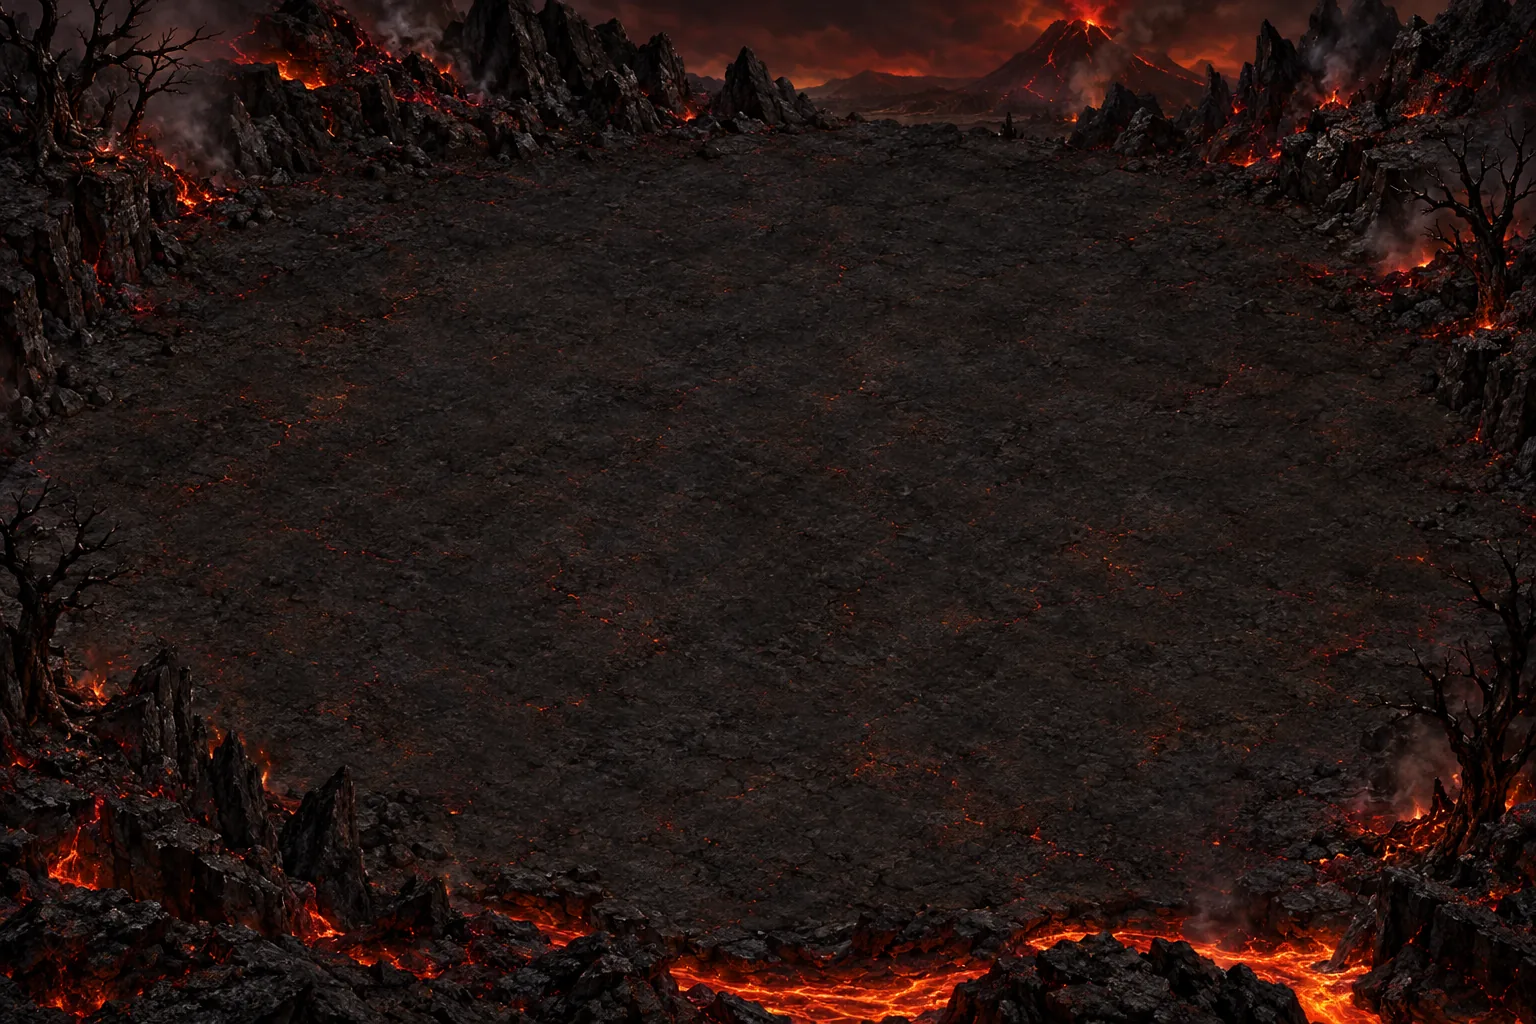
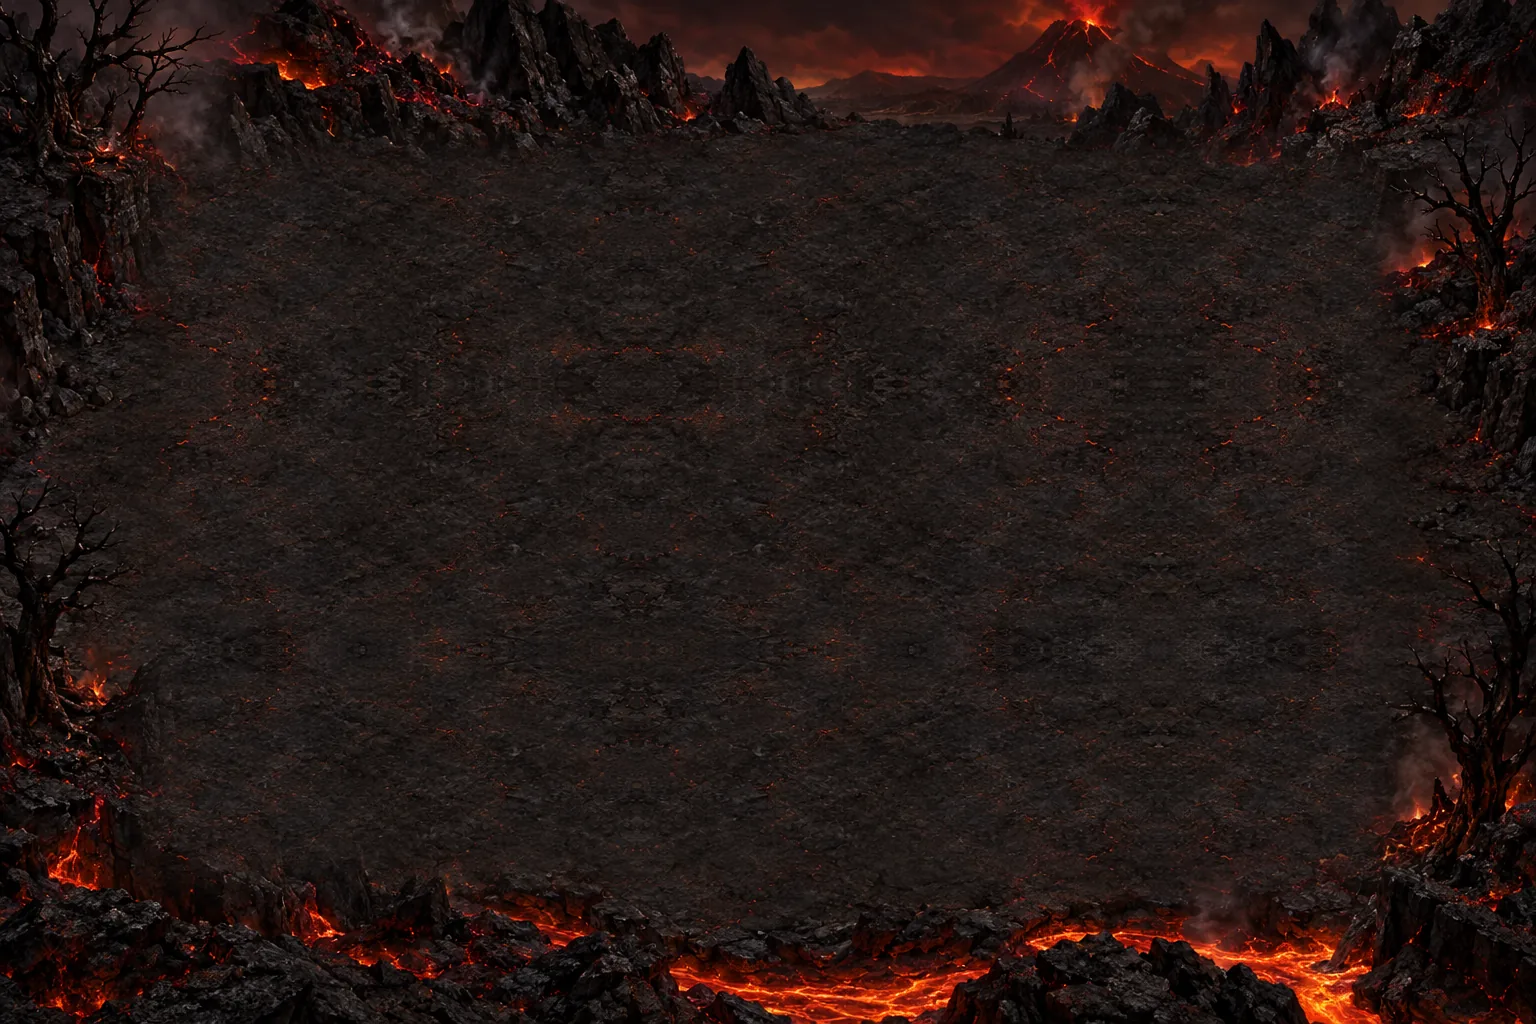
UI + assets (digital arena): more obstacle variety (6 + 5), obstacles fitted to their hexes, clean plate under the board, sprite units stand lower, no ring round the active unit

diff --git a/src/ui/ArenaBoard.tsx b/src/ui/ArenaBoard.tsx
@@ -37,7 +37,12 @@ const GoldGrid = memo(function GoldGrid({ cells, points, wide }: { cells: readon
 });
 
 /** Obstacle pictures of the digital arenas (public/assets/arena/cyfrowa): the two variants used on each arena. */
-const OBSTACLE_ART = { dawn: ['boulders', 'ruin'], horde: ['spires', 'deadtree'] } as const;
+const OBSTACLE_ART = {
+  dawn: ['boulders', 'ruin', 'pine', 'log', 'brambles', 'statue'],
+  horde: ['spires', 'deadtree', 'bones', 'barricade', 'crystals'],
+} as const;
+/** An obstacle picture is fitted into this box, standing on the lower part of its hex. */
+const OBSTACLE_BOX = { w: 76, h: 92, base: 26 };
 
 export interface ArenaView {
   x: number;
@@ -85,6 +90,8 @@ interface Props {
 
 /** Rim of the blocked cells on both arenas (scripts/assets/arenas.py paints the same one). */
 const OBSTACLE_RIM = '#A88414';
+/** How far below the middle of its hex(es) a sprite unit stands (its feet). */
+const FEET = 24;
 
 export function ArenaBoard(p: Props) {
   const { state, view, scale, anim, deploy, targeting, hover, setHover, active, moves, hops, targets, approach } = p;
@@ -113,9 +120,9 @@ export function ArenaBoard(p: Props) {
   /** Feet of a sprite unit: the middle of its hex, or between its two hexes. */
   const anchorOf = (fp: { head: HexKey; tail?: HexKey }) => {
     const h = cellCenter(fp.head);
-    if (!fp.tail) return { x: h.x, y: h.y + 10 };
+    if (!fp.tail) return { x: h.x, y: h.y + FEET };
     const t = cellCenter(fp.tail);
-    return { x: (h.x + t.x) / 2, y: (h.y + t.y) / 2 + 10 };
+    return { x: (h.x + t.x) / 2, y: (h.y + t.y) / 2 + FEET };
   };
   const spritePieces: SpritePiece[] = spriteUnits.flatMap((u): SpritePiece[] => {
     const fp = footprintOf(u);
@@ -129,8 +136,9 @@ export function ArenaBoard(p: Props) {
       if (enemies.length) flip = enemies.reduce((m, x) => m + x, 0) / enemies.length < a.x;
     }
     const melee = lastStrike(u.id, false);
-    const isActive = deploySide ? picked === u.id : active?.id === u.id;
-    return [{ key: u.id, defId: u.defId, x: a.x, y: a.y, flip, dead: !u.alive, ring: isActive ? ACTIVE_FIGURE_RING : null, attack: melee ? { key: melee.key, towardX: cellCenter(melee.to).x } : null, hit: hitIds.includes(u.id), snap: b.stage === 'deploy' }];
+    // In a fight the blue cells already mark the active unit; the ring only shows which unit is picked while deploying.
+    const ring = deploySide && picked === u.id ? ACTIVE_FIGURE_RING : null;
+    return [{ key: u.id, defId: u.defId, x: a.x, y: a.y, flip, dead: !u.alive, ring, attack: melee ? { key: melee.key, towardX: cellCenter(melee.to).x } : null, hit: hitIds.includes(u.id), snap: b.stage === 'deploy' }];
   });
   return (
     <Frame crest className="grow arena-frame" innerClass="" innerStyle={{ background: '#14100A' }}>
@@ -144,8 +152,13 @@ export function ArenaBoard(p: Props) {
             b.obstacles.map((k) => {
               const c = cellCenter(k);
               const { col, row } = wideCellOf(k);
-              const name = OBSTACLE_ART[b.arena][(col + row) % 2];
-              return <img key={`ob${k}`} src={asset(`arena/cyfrowa/${name}.webp`)} alt="" style={{ position: 'absolute', left: c.x - 46, top: c.y - 74, width: 92, pointerEvents: 'none', filter: b.arena === 'horde' ? 'brightness(1.55) contrast(1.05)' : undefined }} />;
+              const names = OBSTACLE_ART[b.arena];
+              const name = names[(col * 5 + row * 3 + col * row) % names.length];
+              return (
+                <div key={`ob${k}`} style={{ position: 'absolute', left: c.x - OBSTACLE_BOX.w / 2, top: c.y + OBSTACLE_BOX.base - OBSTACLE_BOX.h, width: OBSTACLE_BOX.w, height: OBSTACLE_BOX.h, display: 'flex', alignItems: 'flex-end', justifyContent: 'center', pointerEvents: 'none' }}>
+                  <img src={asset(`arena/cyfrowa/${name}.webp`)} alt="" style={{ maxWidth: '100%', maxHeight: '100%', filter: b.arena === 'horde' ? 'brightness(1.55) contrast(1.05)' : undefined }} />
+                </div>
+              );
             })}
           <svg width={CANVAS_W} height={CANVAS_H} style={{ position: 'absolute', left: 0, top: 0 }}>
             <g pointerEvents="none">
@@ -241,7 +254,7 @@ export function ArenaBoard(p: Props) {
             const sprite = spriteIds.has(u.id);
             const figure = sprite || figureFor(u.defId);
             const fp = sprite ? footprintOf(u) : null;
-            const { x, y } = fp ? (() => { const a = anchorOf(fp); return { x: a.x - W / 2, y: a.y - 10 - H / 2 }; })() : cellPos(posOf(u)!);
+            const { x, y } = fp ? (() => { const a = anchorOf(fp); return { x: a.x - W / 2, y: a.y - FEET - H / 2 }; })() : cellPos(posOf(u)!);
             const isActive = deploySide ? picked === u.id : active?.id === u.id;
             const isTarget = targets.some((t) => t.id === u.id);
             const strike = lastStrike(u.id, false);

diff --git a/scripts/assets/arena_cyfrowa.py b/scripts/assets/arena_cyfrowa.py
@@ -1,0 +1,62 @@
+"""Digital arena pictures: compact obstacle sprites and backgrounds with a clean plate under the board.
+
+Usage: python3 scripts/assets/arena_cyfrowa.py <dir with the raw PNGs> <output dir>
+  raw: dawn_raw.png, horde_raw.png (1536x1024) and one PNG per obstacle (transparent, 768x768).
+The grid sits in the middle of the picture (see src/ui/arenaGeometry.ts); trees and ruins of the frame sometimes reached
+under its corners, so the board area is replaced by a mirror-tiled crop of the clean middle of the same picture with a soft edge.
+"""
+import glob
+import os
+import sys
+
+from PIL import Image, ImageChops, ImageDraw, ImageFilter
+
+# Board rectangle in the 1000 x 667 canvas of arenaGeometry (13.5 hex widths of 62, 14 hex radii), with a margin.
+BOARD = (81, 83, 919, 584)
+MARGIN = 6
+FEATHER = 36
+
+
+def clean_plate(im: Image.Image) -> Image.Image:
+    w, h = im.size
+    k = w / 1000
+    x0, y0, x1, y1 = (int(v * k) for v in (BOARD[0] - MARGIN, BOARD[1] - MARGIN, BOARD[2] + MARGIN, BOARD[3] + MARGIN))
+    # A clean piece from the middle, mirrored over and over to cover the board.
+    cw, ch = int(w * 0.34), int(h * 0.26)
+    cx, cy = int(w * 0.33), int(h * 0.38)
+    piece = im.crop((cx, cy, cx + cw, cy + ch))
+    tile = Image.new("RGB", (cw * 2, ch * 2))
+    tile.paste(piece, (0, 0))
+    tile.paste(piece.transpose(Image.FLIP_LEFT_RIGHT), (cw, 0))
+    tile.paste(piece.transpose(Image.FLIP_TOP_BOTTOM), (0, ch))
+    tile.paste(piece.transpose(Image.ROTATE_180), (cw, ch))
+    plate = Image.new("RGB", (w, h))
+    # Offset so the original middle stays roughly where it was.
+    for ty in range(y0 - ch * 2, y1 + ch * 2, ch * 2):
+        for tx in range(x0 - cw * 2, x1 + cw * 2, cw * 2):
+            plate.paste(tile, (tx, ty))
+    mask = Image.new("L", (w, h), 0)
+    ImageDraw.Draw(mask).rectangle((x0 + FEATHER, y0 + FEATHER, x1 - FEATHER, y1 - FEATHER), fill=255)
+    mask = mask.filter(ImageFilter.GaussianBlur(FEATHER / 1.5))
+    return Image.composite(plate, im, mask)
+
+
+def sprite(im: Image.Image, size: int = 320) -> Image.Image:
+    a = im.getchannel("A").point(lambda v: 255 if v > 16 else 0).filter(ImageFilter.MinFilter(5))
+    bb = a.getbbox()
+    pad = 4
+    im = im.crop((max(0, bb[0] - pad), max(0, bb[1] - pad), min(im.width, bb[2] + pad), min(im.height, bb[3] + pad)))
+    im.thumbnail((size, size), Image.LANCZOS)
+    return im
+
+
+if __name__ == "__main__":
+    src, dst = sys.argv[1:3]
+    os.makedirs(dst, exist_ok=True)
+    for name in ("dawn", "horde"):
+        clean_plate(Image.open(os.path.join(src, f"{name}_raw.png")).convert("RGB")).save(os.path.join(dst, f"{name}.webp"), quality=82, method=6)
+    for f in sorted(glob.glob(os.path.join(src, "*.png"))):
+        name = os.path.basename(f)[:-4]
+        if name.endswith("_raw") or name in ("both", "obst", "obst2"):
+            continue
+        sprite(Image.open(f).convert("RGBA")).save(os.path.join(dst, f"{name}.webp"), quality=85, method=6)

diff --git a/docs/ZASADY_CYFROWE.md b/docs/ZASADY_CYFROWE.md
@@ -59,6 +59,7 @@ W trybie `digital` bitwa toczy się na **innej planszy** niż klasyczna (`Battle
   kolumny startowej, głowa w tym samym rzędzie, kolumnę dalej.
 - Pojedynek na mapie (`duel`): dwie jednostki na sąsiednich polach środkowego rzędu.
 - **Oprawa:** tła bez siatki w poważnym, stonowanym stylu (`public/assets/arena/cyfrowa/dawn|horde.webp`), siatkę rysuje kod
-  (`src/ui/arenaGeometry.ts`, `geometryOf`); przeszkody to osobne obrazy z przezroczystością (głazy i ruina na łące, skały i martwe
-  drzewo na polu Hordy) z delikatnym złotym obrysem pola. Wybór ogona w interfejsie: najechanie pokazuje ogon, prawy przycisk
+  (`src/ui/arenaGeometry.ts`, `geometryOf`); przeszkody to osobne obrazy z przezroczystością (łąka: głazy, ruina, sosna, kłoda, ciernie, posąg; pole Hordy: skały, martwe
+  drzewo, kości, barykada, kryształy; wariant zależy od pola), wpasowane w dolną część heksa, z delikatnym złotym obrysem pola. Pod planszą tło ma czystą teksturę (drzewa i ruiny ramy nie wchodzą pod heksy, `scripts/assets/arena_cyfrowa.py`); aktywną jednostkę
+  pokazują niebieskie pola, bez żółtego kółka (kółko zostaje tylko przy rozstawianiu). Wybór ogona w interfejsie: najechanie pokazuje ogon, prawy przycisk
   myszy obraca jednostkę (druga strona).
